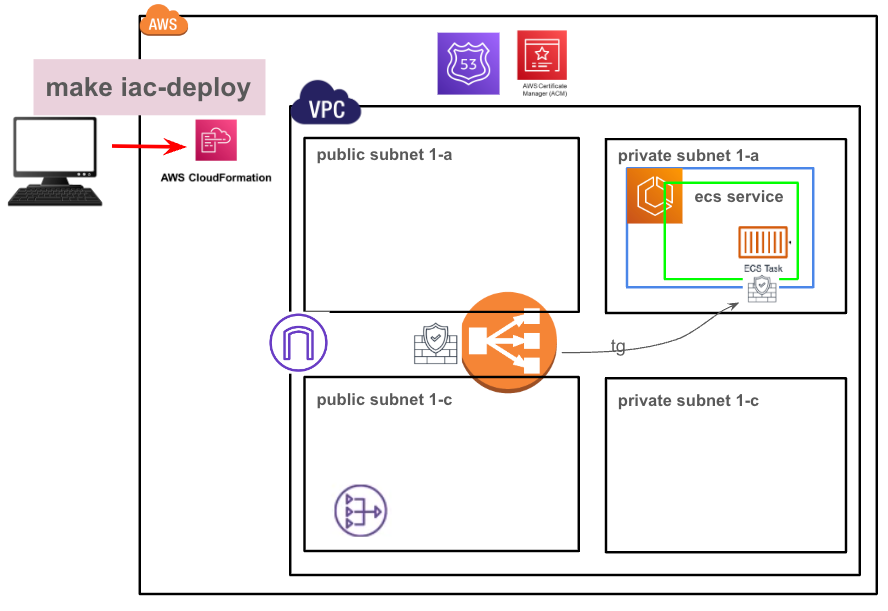
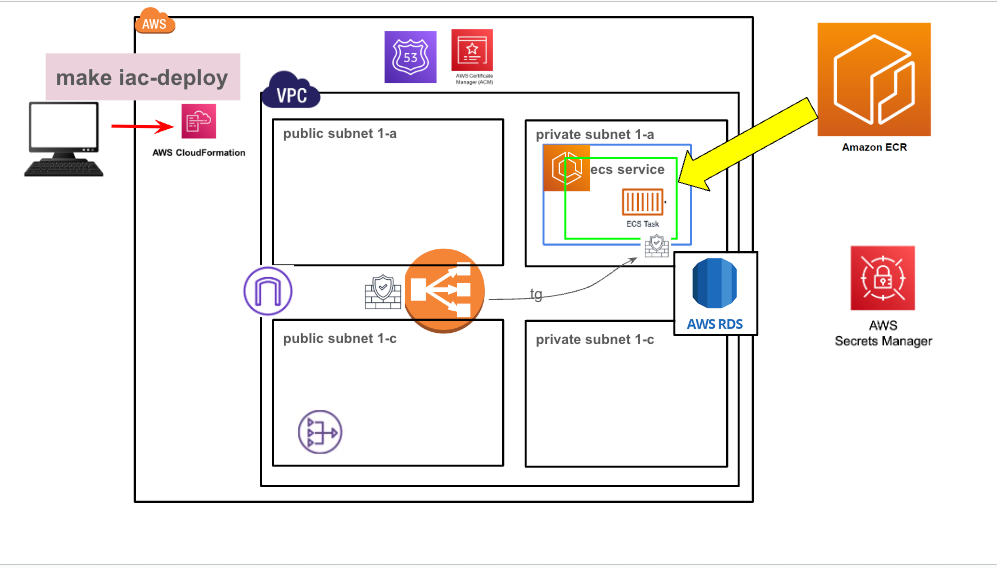
readme変更

Changed region(s): [[0.0, 0.0, 1.0, 1.0]]

diff --git a/frontend/src/App.tsx b/frontend/src/App.tsx
@@ -22,6 +22,7 @@ function App() {
     <>
       <div>CloudFormationで環境を構築しました</div>
       <br />
+        <div>無茶苦茶良い感じ。ちゃんとDB、シークレットも含めて環境をCloudFormationで作成完了</div>
       <br />
         <div>
             <button onClick={getUserInfoClick}> Get User Info</button>

diff --git a/README.md b/README.md
@@ -40,6 +40,7 @@
 
 ![](./assets/images/aws-architecher.png)
 ![](./assets/images/aws-architecher2.png)
+![](./assets/images/aws-architecher3.png)
 
 </details>
 
